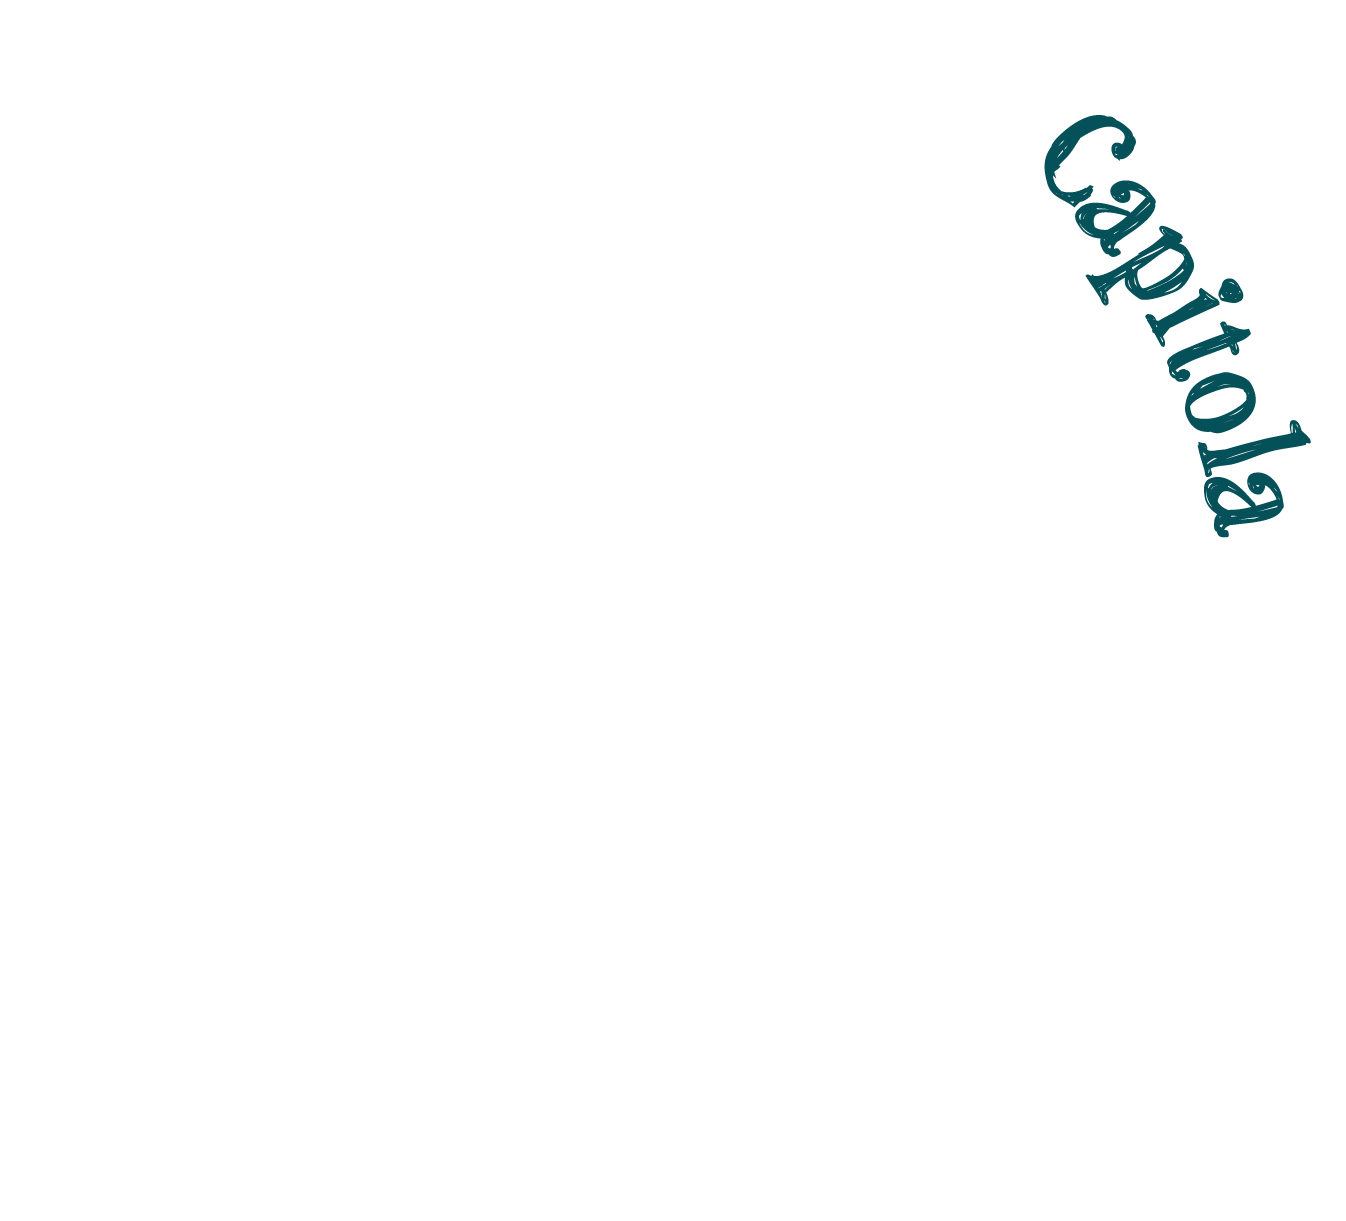
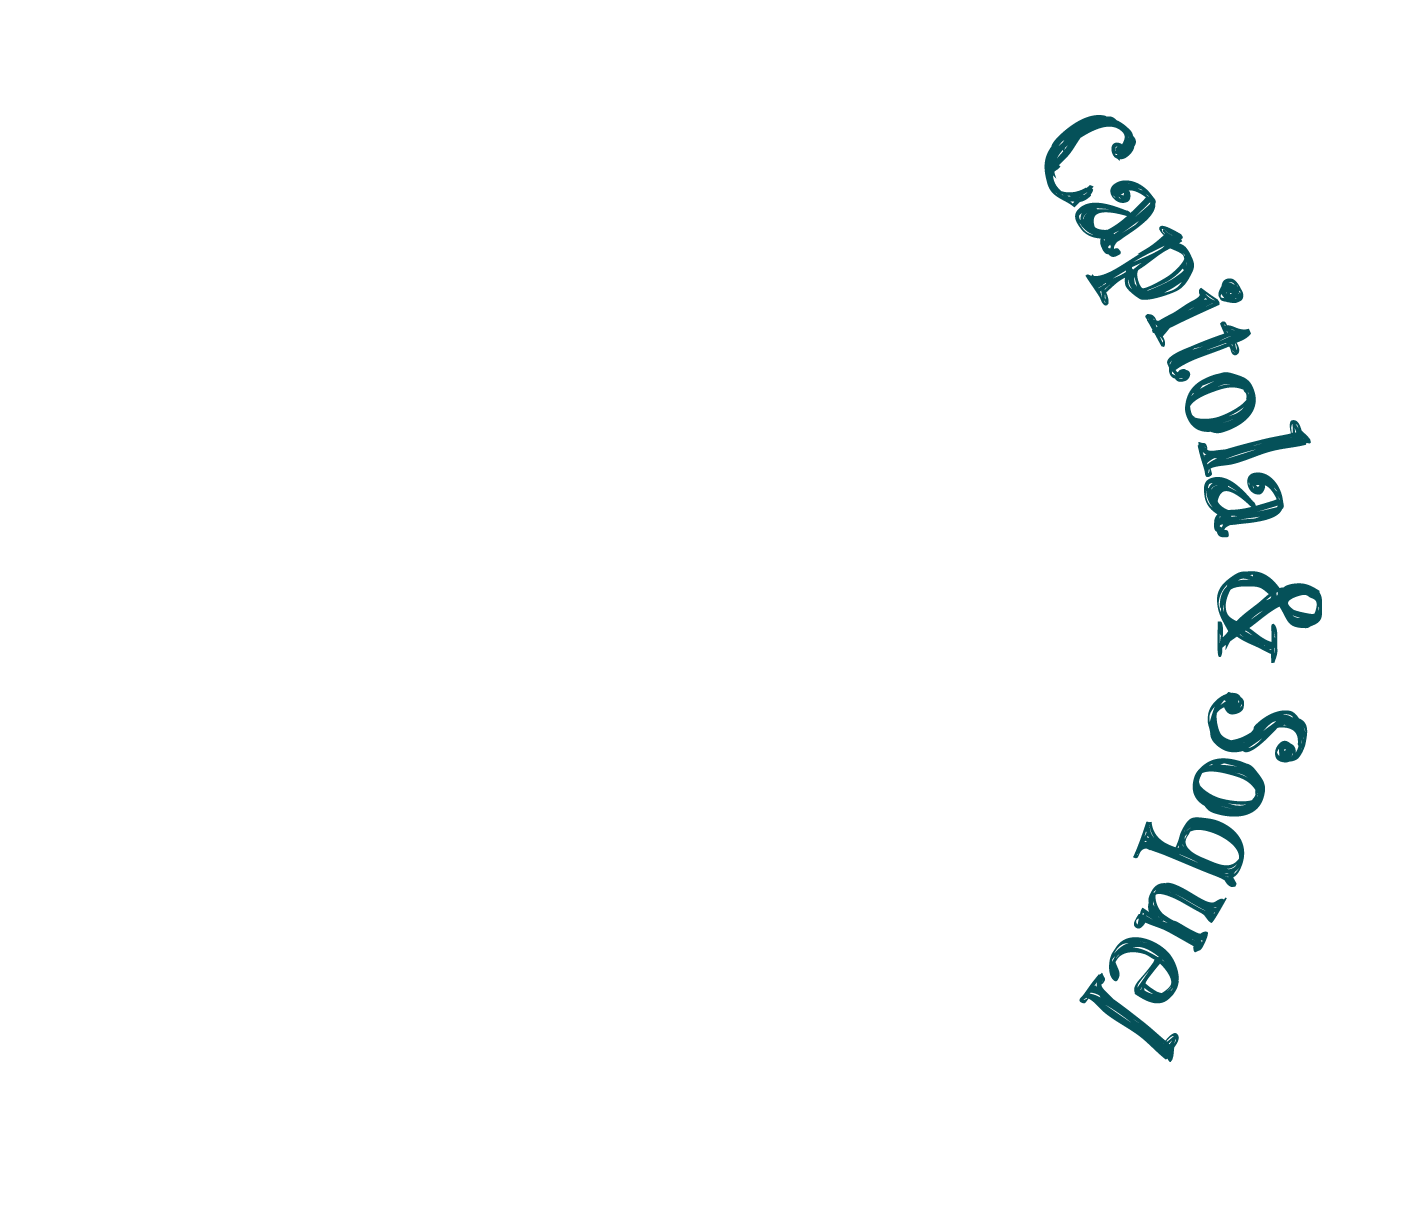
Added data for use in locations content/text.

Changed region(s): [[0.7177, 0.0934, 0.9673, 0.4357], [0.7489, 0.4668, 0.9361, 0.8714]]

diff --git a/src/locations.js b/src/locations.js
@@ -11,38 +11,238 @@ const locations = {
     name: 'aptos',
     label: images['label_aptos.png'],
     pics: [],
-    details: null,
-  },
-  bouldercreek: {
-    name: 'bouldercreek',
-    label: images['label_bouldercreek.png'],
-    pics: [],
-    details: null,
+    title: `Aptos: Redwoods and the Seas in One Idyllic Enviroment`,
+    intro: `The picturesque town of Aptos is in an unincorporated area of Santa
+    Cruz County that includes the Rio Del Mar, Seacliff and Seascape areas. It is
+    also home to historic Aptos Village, and the gateway to the Forest of Nisene
+    Marks State Park.`,
+    must_see: [`“The Cement Ship.”  A local landmark, the S.S. Palo Alto, is
+                docked at the end of the fishing pier.  An experimental concrete
+                ship built as a tanker at the end of World War I, “The Cement
+                Ship” now serves as an artificial reef for marine life.`,
+              `Seacliff State Beach.  The perfect spot for a seaside picnic,
+                complete with barbecue grills and shaded tables along the sand.
+                The long stretch of sand here is a favorite spot for RV campers.`,
+              `Forest of Nisene Marks State Park.  Hikers, runners and bike
+                riders enjoy the 30 miles of trails where remnants of mill sites
+                and trestles still exist.  The park, covering 10,000 acres and once
+                clear-cut by loggers, is a testament to forest regeneration where
+                second-growth redwoods coexist with new foliage.`,
+              `Rio Del Mar Beach.  On the south side of the pier, Rio Del Mar
+                Beach is THE spot for dog lovers and beach fires.`],
+    top_five: [`Check out the locally-grown produce waits on Saturday mornings at
+                the Monterey Bay Certified Farmer’s Market on the Cabrillo College
+                Campus.`,
+              `Stop by the visitor center at Seacliff State Beach, and learn about the Pacific
+                wildlife migration pattern.`,
+              `Look for The Advocate on the Old Growth Loop Trail in the Forest of
+                Nisene Marks State Park.  It is the largest redwood tree in the park,
+                with a circumference of 45 feet.`,
+              `Find the magnolia tree on the grounds of the Bayview Hotel Bed and
+                Breakfast in Aptos Village.  It is the second-oldest known magnolia
+                tree in the world and the Victorian garden features a rose tree over
+                130 years old.`,
+              `Learn about the treasures of the Monterey Bay National Marine
+                Sanctuary at the Interpretive Exhibit at Seacliff State Beach.`],
   },
   capitola: {
     name: 'capitola',
     label: images['label_capitola.png'],
     pics: [],
-    details: null,
+    title: `Capitola & Soquel: Relaxed Seaside and Rural Charm`,
+    intro: `Capitola’s seaside charm, combined with the rural feel of nearby
+    Soquel oftentimes leave visitors longing for a more relaxed way of life in
+    these small towns just south of Santa Cruz. Capitola Village, the Pacific
+    coast’s oldest seaside resort town, retains the feel of a vintage beachside
+    town, where galleries and boutiques decorate quaint streets as the lazy
+    afternoon sun paints the colorful Venetian buildings in golden yellow light.`,
+    must_see: [`Walk Capitola Village, founded over 135 years ago and the Pacific
+                coast’s oldest seaside resort town, where galleries and boutiques
+                decorate quaint streets.`,
+              `Bargetto Winery – the longest continually operating winery in
+                Santa Cruz County – serves as an ideal starting point for
+                self-guided wine tasting tours where the hills above town are
+                draped with vineyards.`,
+              `The Capitola Historical Museum – housed inside a quaint schoolhouse
+                in the village – features changing exhibits and offers a glimpse
+                into the daily life of yesteryear.`,
+              `Stroll quaint 165-year-old town of Soquel Village where picturesque
+                shops dot the streets.`],
+    top_five: [`Pick up a map at the Capitola Historical Museum and enjoy a
+                self-guided walking tour of the area.`,
+              `Walk to the end of Capitola Wharf, where you can rent a kayak or
+                stand-up-paddleboard, fish, have lunch or just admire the scenery.`,
+              `Summertime twilight concerts and outdoor movies at Esplanade Park
+                adjacent to the beach serve as the perfect setting for a picnic
+                dinner while relaxing on a blanket.`,
+              `Browse the antique shops of Soquel Village where everything from
+                heirloom jewelry to early American furniture can be found.`,
+              `Ride the cable car at Shadowbrook restaurant, a landmark eatery in
+                Capitola overlooking Soquel Creek.  Or, walk through the manicured
+                gardens and breathe in the ambiance.`],
   },
   davenport: {
     name: 'davenport',
     label: images['label_davenport.png'],
     pics: [images['davenport1.jpg']],
-    details: null,
+    title: 'Davenport: Rugged Coastline and Solitary Beaches',
+    intro: 'Eleven miles north of Santa Cruz, Davenport’s rugged yet beautiful \
+    coastline overlooks windswept, solitary beaches, where translucent waves \
+    crash against the rustic California ledge.',
+    must_see: [`Waddell Beach. This spot is known internationally as one of the
+                best spots for windsurfing because of the ever-present winds out
+                of the north west.`,
+              `Rancho Del Oso Nature and History Center. The center showcases both
+                the natural and cultural history of the area and a large deck
+                overlooking the Waddell Valley and the Pacific Ocean.`,
+              `Highway 1 Drive. Davenport is the first town in Santa Cruz County
+                visitors will encounter travelling south on Highway 1 from San
+                Francisco. Some of the more expansive, scenic vistas can be
+                enjoyed on this drive.`,
+              `Wilder Ranch State Park. Wetland and riparian habitats thrive,
+                among thirty-four miles of trails for hiking and mountain biking
+                along the ocean bluffs or up grassy terraces.`,
+              `The historic Meder farmhouse at Wilder Ranch State Park has been
+                restored to its early 1900s grandeur with appropriate replica
+                furnishings and interpretive supplies.`],
+    top_five: [`The Davenport Jail, built in 1914 and used only twice.  It is
+                now a museum which houses natural artifacts.`,
+              `Lundberg Studios, where masterpieces are shown in the gallery and
+                discounted “seconds” are also available.`,
+              'Scour the beaches of the Davenport coastline for sea glass.',
+              `Stop off at a u-pick farm, where you can harvest your own
+                strawberries, ollalieberries and kiwi fruit.`,
+              `View migrating gray and humpback whales pass by every year from
+                the bluffs at Davenport – the perfect vantage point!`],
   },
-  felton: {
-    name: 'felton',
-    label: images['label_felton.png'],
+  sanlorenzovalley: {
+    name: 'sanlorenzovalley',
+    label: images['label_slv.png'],
     pics: [],
-    details: null,
+    title: 'San Lorenzo Valley: Wind Your Way Through the Redwoods',
+    intro: `The San Lorenzo River begins in the Santa Cruz Mountains, winding its
+    way through Ben Lomond, Boulder Creek, Brookdale and Felton before spilling
+    into the Monterey Bay. Once home to a bustling logging industry, the mountains
+    returned to their natural state, where old and second-growth redwood trees have
+    sprung back to life.`,
+    must_see: [`The Felton Covered Bridge, considered to be the tallest covered
+                bridge in the United States, was the main entry point for Felton
+                for 45 years and spans 80 feet over the San Lorenzo River.`,
+              `Roaring Camp Railroads hosts nostalgic rides through the redwoods
+                aboard vintage steam locomotives.  Roaring Camp also hosts year-round,
+                family-friendly festivities like a Starlight Evening, a visit from
+                Thomas the Tank Engine, a Civil War re-enactment over Memorial Day
+                Weekend, and a Fourth of July Celebration.`,
+              `Big Basin Redwoods State Park is California’s oldest – established
+                in 1902 – and is home to the largest continuous stand of ancient
+                Coast Redwoods south of San Francisco.`,
+              `Visiting skate boarders can grind at the 8,500 square-foot Jim
+                Keefe Skate Park at Highlands County Park in Ben Lomond.`,
+              `The Redwood Loop Trail at Henry Cowell Redwoods State Park.
+                This stroller and wheelchair-friendly trail is just shy of a mile
+                long, and is lush with old growth redwood trees.  Nearby are horse
+                and dog-friendly trails.`],
+    top_five: [`Hit a round at the Boulder Creek Golf & Country Club, surrounded
+                by majestic redwood trees.`,
+              `Borrow a flashlight from the visitor center at Henry Cowell Redwoods
+                State Park and crawl inside the John C. Fremont tree, hollowed out
+                by fire and once used as a resort honeymoon room.`,
+              `Visit the secluded lake at the Loch Lomond Recreation Area, where
+                vistas and trails abound.`,
+              `Look for the remains of old logging operations, lime quarries
+                and kilns of bygone days at Fall Creek in Henry Cowell Redwoods
+                State Park.`,
+              `Find the sea fossils embedded in the side of the mountain as you
+                ride the steam train at Roaring Camp up Bear Mountain, evidence that
+                millions of years ago this region was under the sea.`],
   },
   santacruz: {
     name: 'santacruz',
     label: images['label_santacruz.png'],
     pics: [],
-    details: null,
+    title: `Santa Cruz: The Perfect Beachside Destination`,
+    intro: `Santa Cruz is undoubtedly the quintessential California beach town,
+    awakening nostalgic memories of summers past and inspiring a new generation.
+    But while Santa Cruz is the classic spot to dig your toes into the warm sand
+    and soak up the sun, the fun only begins at the beach.`,
+    must_see: [`Santa Cruz Beach Boardwalk. The legendary Boardwalk features the
+                Giant Dipper, a vintage wooden roller coaster that has thrilled
+                visitors for over 90 years. Seventy-three hand-carved horses
+                prance proudly around the famous Looff Carousel, built in 1911.`,
+              `Seymour Marine Discovery Center at Long Marine Lab. This renowned
+                research facility, affiliated with UC Santa Cruz, features aquariums
+                and marine exhibits. Ms. Blue, one of the world’s largest blue whale
+                skeletons rests adjacent to the facility.`,
+              `Santa Cruz Wharf. The Santa Cruz Wharf celebrated its 100th
+                Anniversary just last year. Stretching out a half-mile into the
+                waters of the Monterey Bay, the wharf is lined with shops and
+                restaurants.`,
+              `Santa Cruz Surfing Museum. Housed inside the Mark Abbott Memorial
+                Lighthouse, this diminutive museum chronicles over 120 years of
+                surfing history in Santa Cruz. Just outside sits a plaque donated
+                by the descendants of Hawaiian royalty who brought surfing to the mainland.`,
+              `University of California at Santa Cruz. Sitting atop a sprawling
+                hillside, the University’s performance halls, galleries, arboretum,
+                and trails are all open to visitors.`,
+              `Downtown Santa Cruz. Anchored by a clock tower, this lively town
+                center features pedestrian-friendly, tree-lined streets populated
+                with boutiques, art galleries, and sidewalk performers. A vibrant
+                weekly downtown farmer’s market and a monthly antiques street
+                faire add to its charm.`],
+    top_five: [`In the fall, bring your binoculars to Natural Bridges State Beach,
+                when thousands of monarchs spend their winters in a protected
+                eucalyptus grove.`,
+              `Take in one of the best views in town on a bluff overlooking
+                Downtown Santa Cruz where the last original building of the Santa
+                Cruz Mission stands.`,
+              `Explore West Cliff Drive, a scenic three mile path between Natural
+                Bridges State Beach and the Santa Cruz Wharf.`,
+              `Stop by the Monterey Bay National Marine Sanctuary Exploration
+                Center, which features dynamic, ocean-related exhibits.`,
+              `Public murals and artwork accentuate downtown’s cosmopolitan
+                flavor, including the bronze sculpture of musician Tom Jefferson
+                Scribner playing the musical saw, which greets visitors on Pacific
+                Avenue.`],
   },
+  scottsvalley: {
+    name: 'scottsvalley',
+    label: images['label_scottsvalley.png'],
+    pics: [],
+    title: `Scotts Valley: Gateway to the Santa Cruz Mountains`,
+    intro: `Scotts Valley, located amidst the area's dramatic redwood forests
+    in the western region of the Santa Cruz Mountains, is a small suburban
+    community with a proud link to the past. Once a stagecoach stop between
+    San Jose and Santa Cruz, Scotts Valley’s deep history goes back more than
+    150 years. Today, it serves as a vacation spot for both leisure and business
+    travelers.`,
+    must_see: [`The Hiram D. Scott House, built in 1853 is a Santa Cruz County
+                Historical Trust Landmark, and is listed on the National Register
+                of Historic Places.`,
+              `Scotts Valley’s Skypark is the only place in Santa Cruz County to
+                see fireworks on the Fourth of July.`,
+              `Celebrated movie director Alfred Hitchcock, Scotts Valley's most
+                famous resident lived in a mountaintop estate for three decades
+                beginning in 1940, which is now a winery. Click here for a list
+                of tasting rooms.`,
+              `The annual Scotts Valley Art & Wine Festival will delight art
+                lovers with over 100 local artists specializing in glass, ceramic,
+                painting, metal work and other forms. Local wine tasting, food,
+                music and a kid’s art tent round out the festivities.`],
+    top_five: [`Visiting with Fido? Skypark’s dog park includes a special area
+                for both large and small dogs.`,
+              `Make Scotts Valley your basecamp as you explore nearby local and
+                state parks. An array of outdoor options like tennis, golf,
+                skateboarding, and basketball are all close by.`,
+              `April through October, visit the Scotts Valley Farmer's Market,
+                where food artisans display a unique mix of fruits and vegetables
+                as well as baked goods, fresh meats, sausages and seafood, and
+                prepared foods. During the summer months, enjoy live music.`,
+              `Skateboarders will delight at the Tim Brauch Memorial Skatepark,
+                a 22,000 square foot concrete playground.`,
+              `Look for historical murals in town, which pay tribute to the
+                history of the area and the people who have contributed to the
+                community.`]
+              }
 };
 
 export default locations;

diff --git a/src/App.css b/src/App.css
@@ -20,17 +20,12 @@
 }
 
 .pin-container:hover > .pin {
-  transform: scale(1.2);
+  transform: scale(1.4);
 }
 
 .aptos {
   top: 55%;
   right: 8%;
-}
-
-.bouldercreek {
-  top: 3%;
-  right: 48%;
 }
 
 .capitola {
@@ -43,14 +38,19 @@
   right: 58%;
 }
 
-.felton {
-  top: 35%;
+.sanlorenzovalley {
+  top: 28%;
   right: 40%;
 }
 
 .santacruz {
   top: 64%;
   right: 38%;
+}
+
+.scottsvalley {
+  top: 40%;
+  right: 30%;
 }
 
 .logo-container {
@@ -71,8 +71,4 @@
   padding: 30px 90px;
   font-size: 24px;
   cursor: pointer;
-}
-
-.featured-pic {
-  border-radius: 50%;
 }

diff --git a/src/Map.js b/src/Map.js
@@ -47,7 +47,7 @@ class Map extends Component {
     console.log('generating pins...');
     for (var i=0; i<keys.length; i++) {
       var pin = cities[keys[i]];
-      console.log(i);
+      console.log(i+1);
       elements.push(
         <div
           className={pin.name+' pin-container'}
